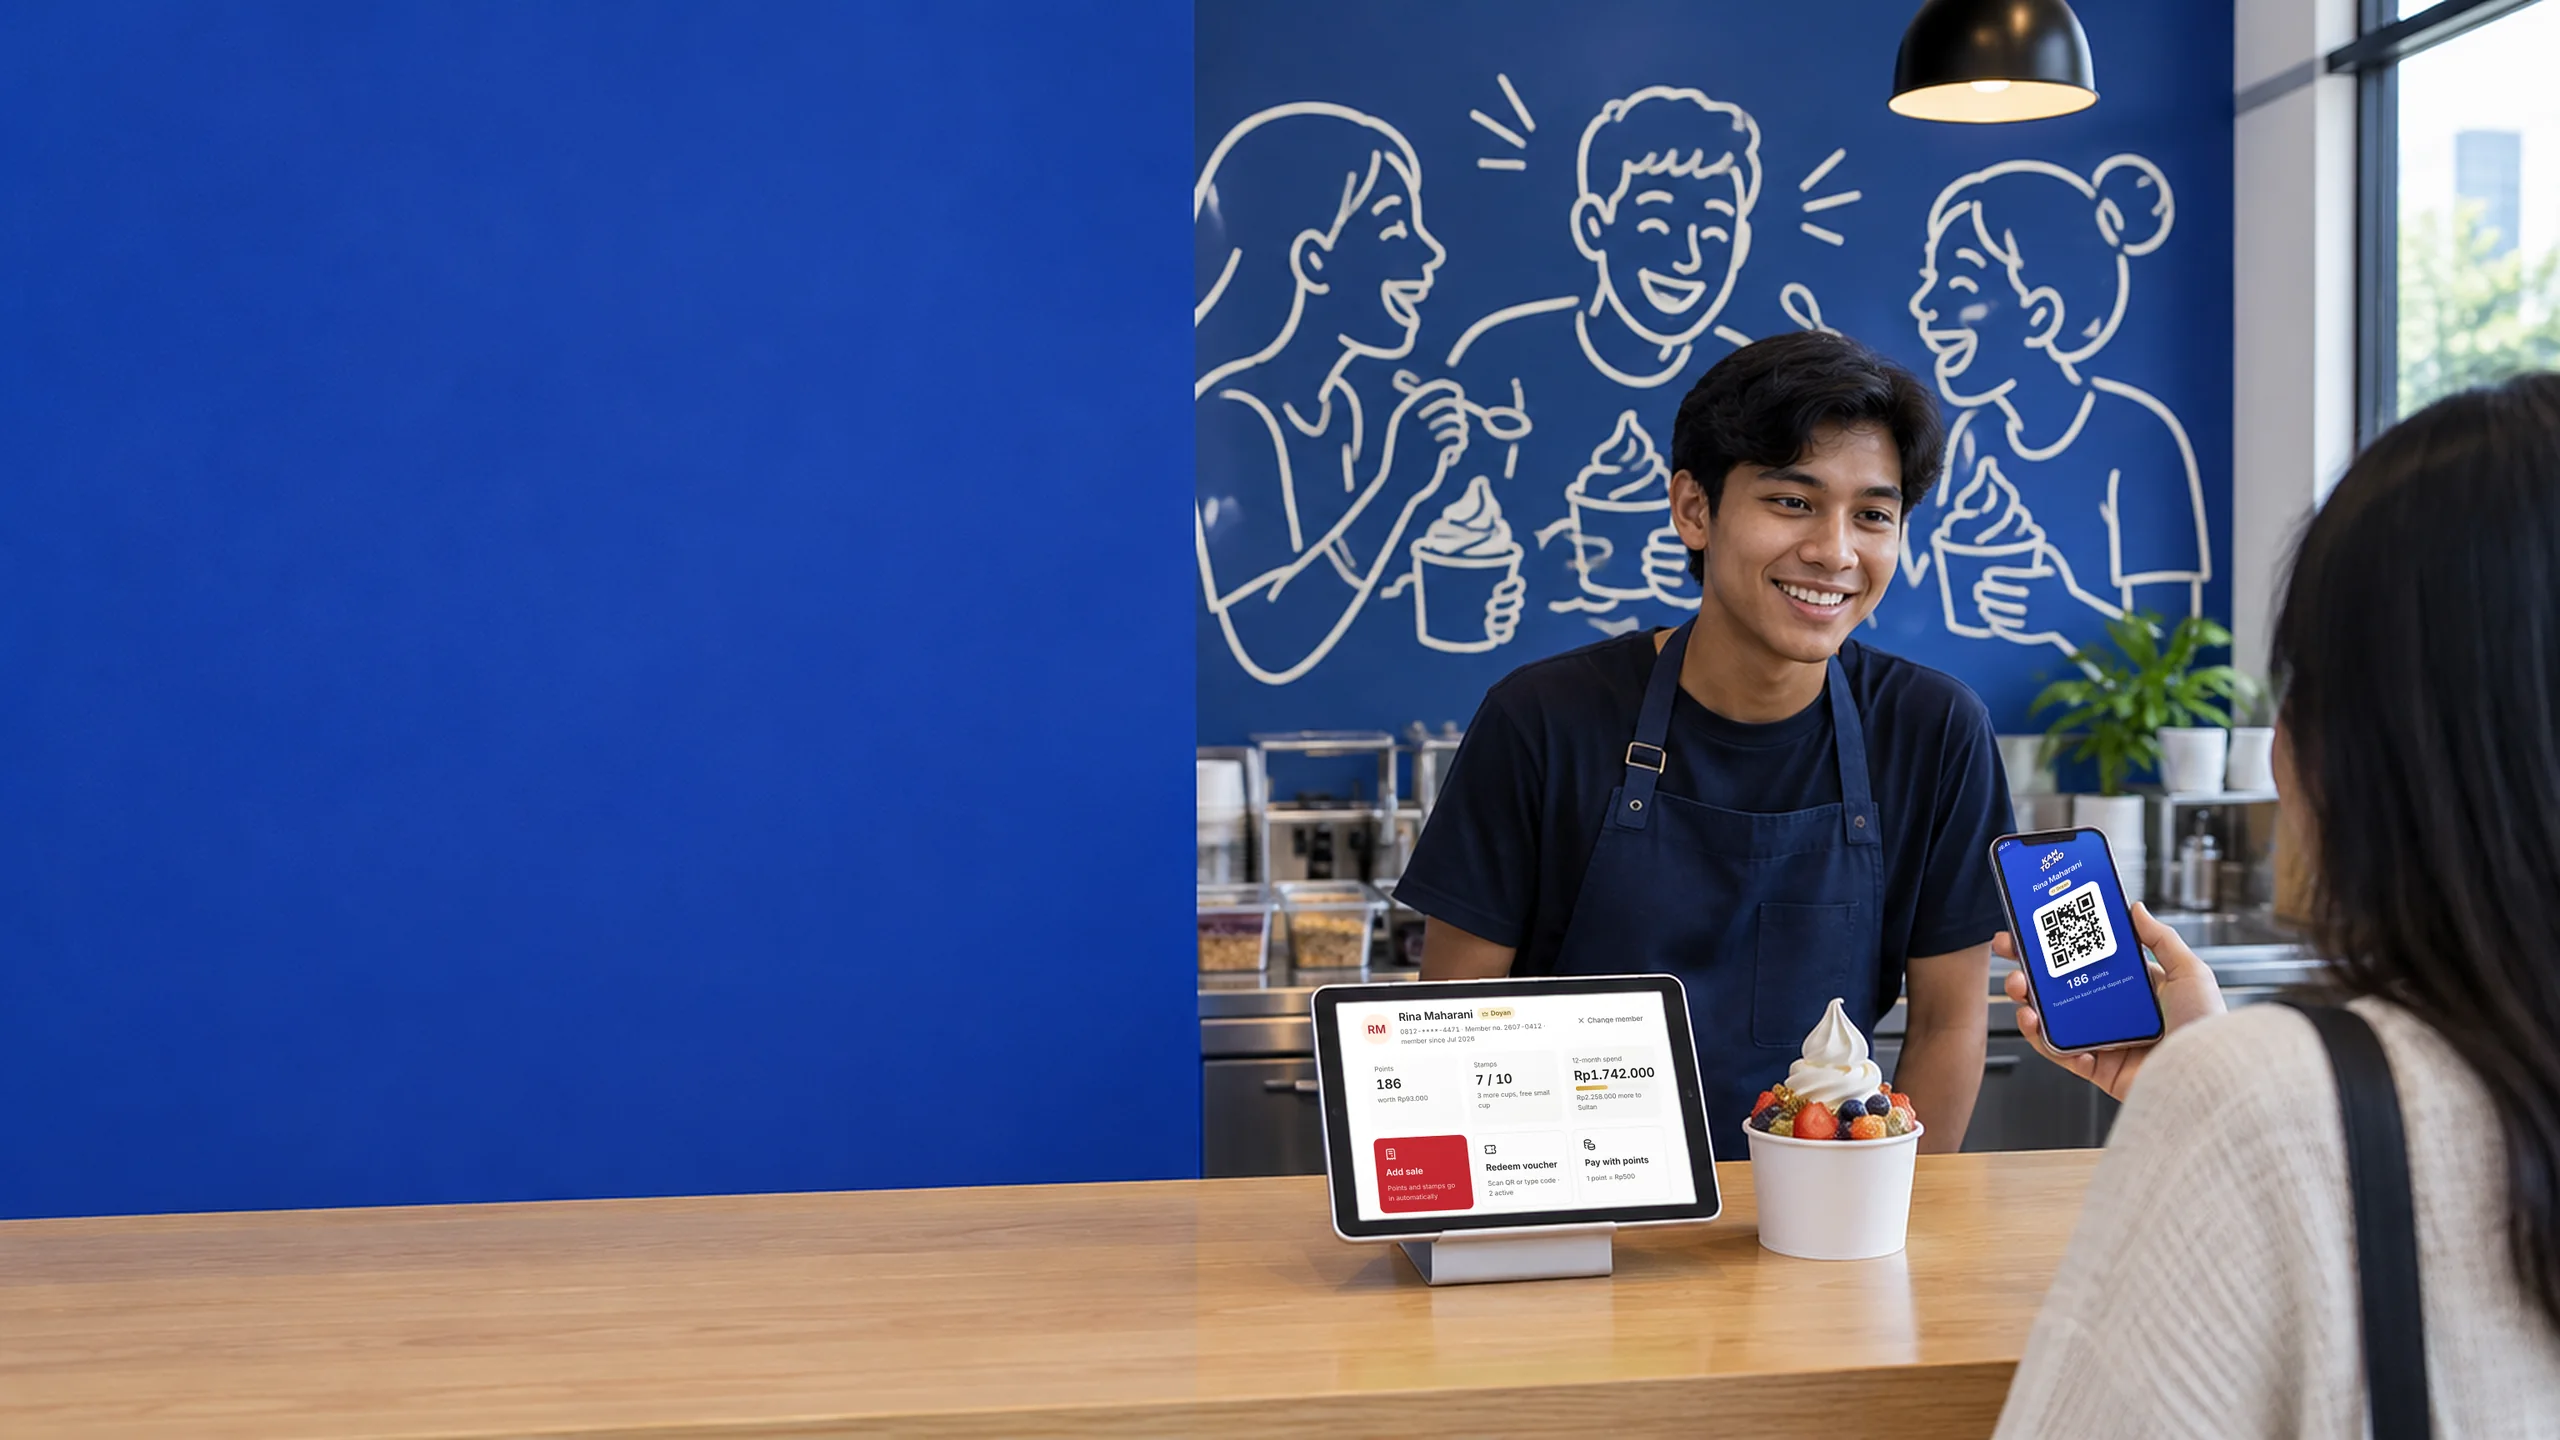
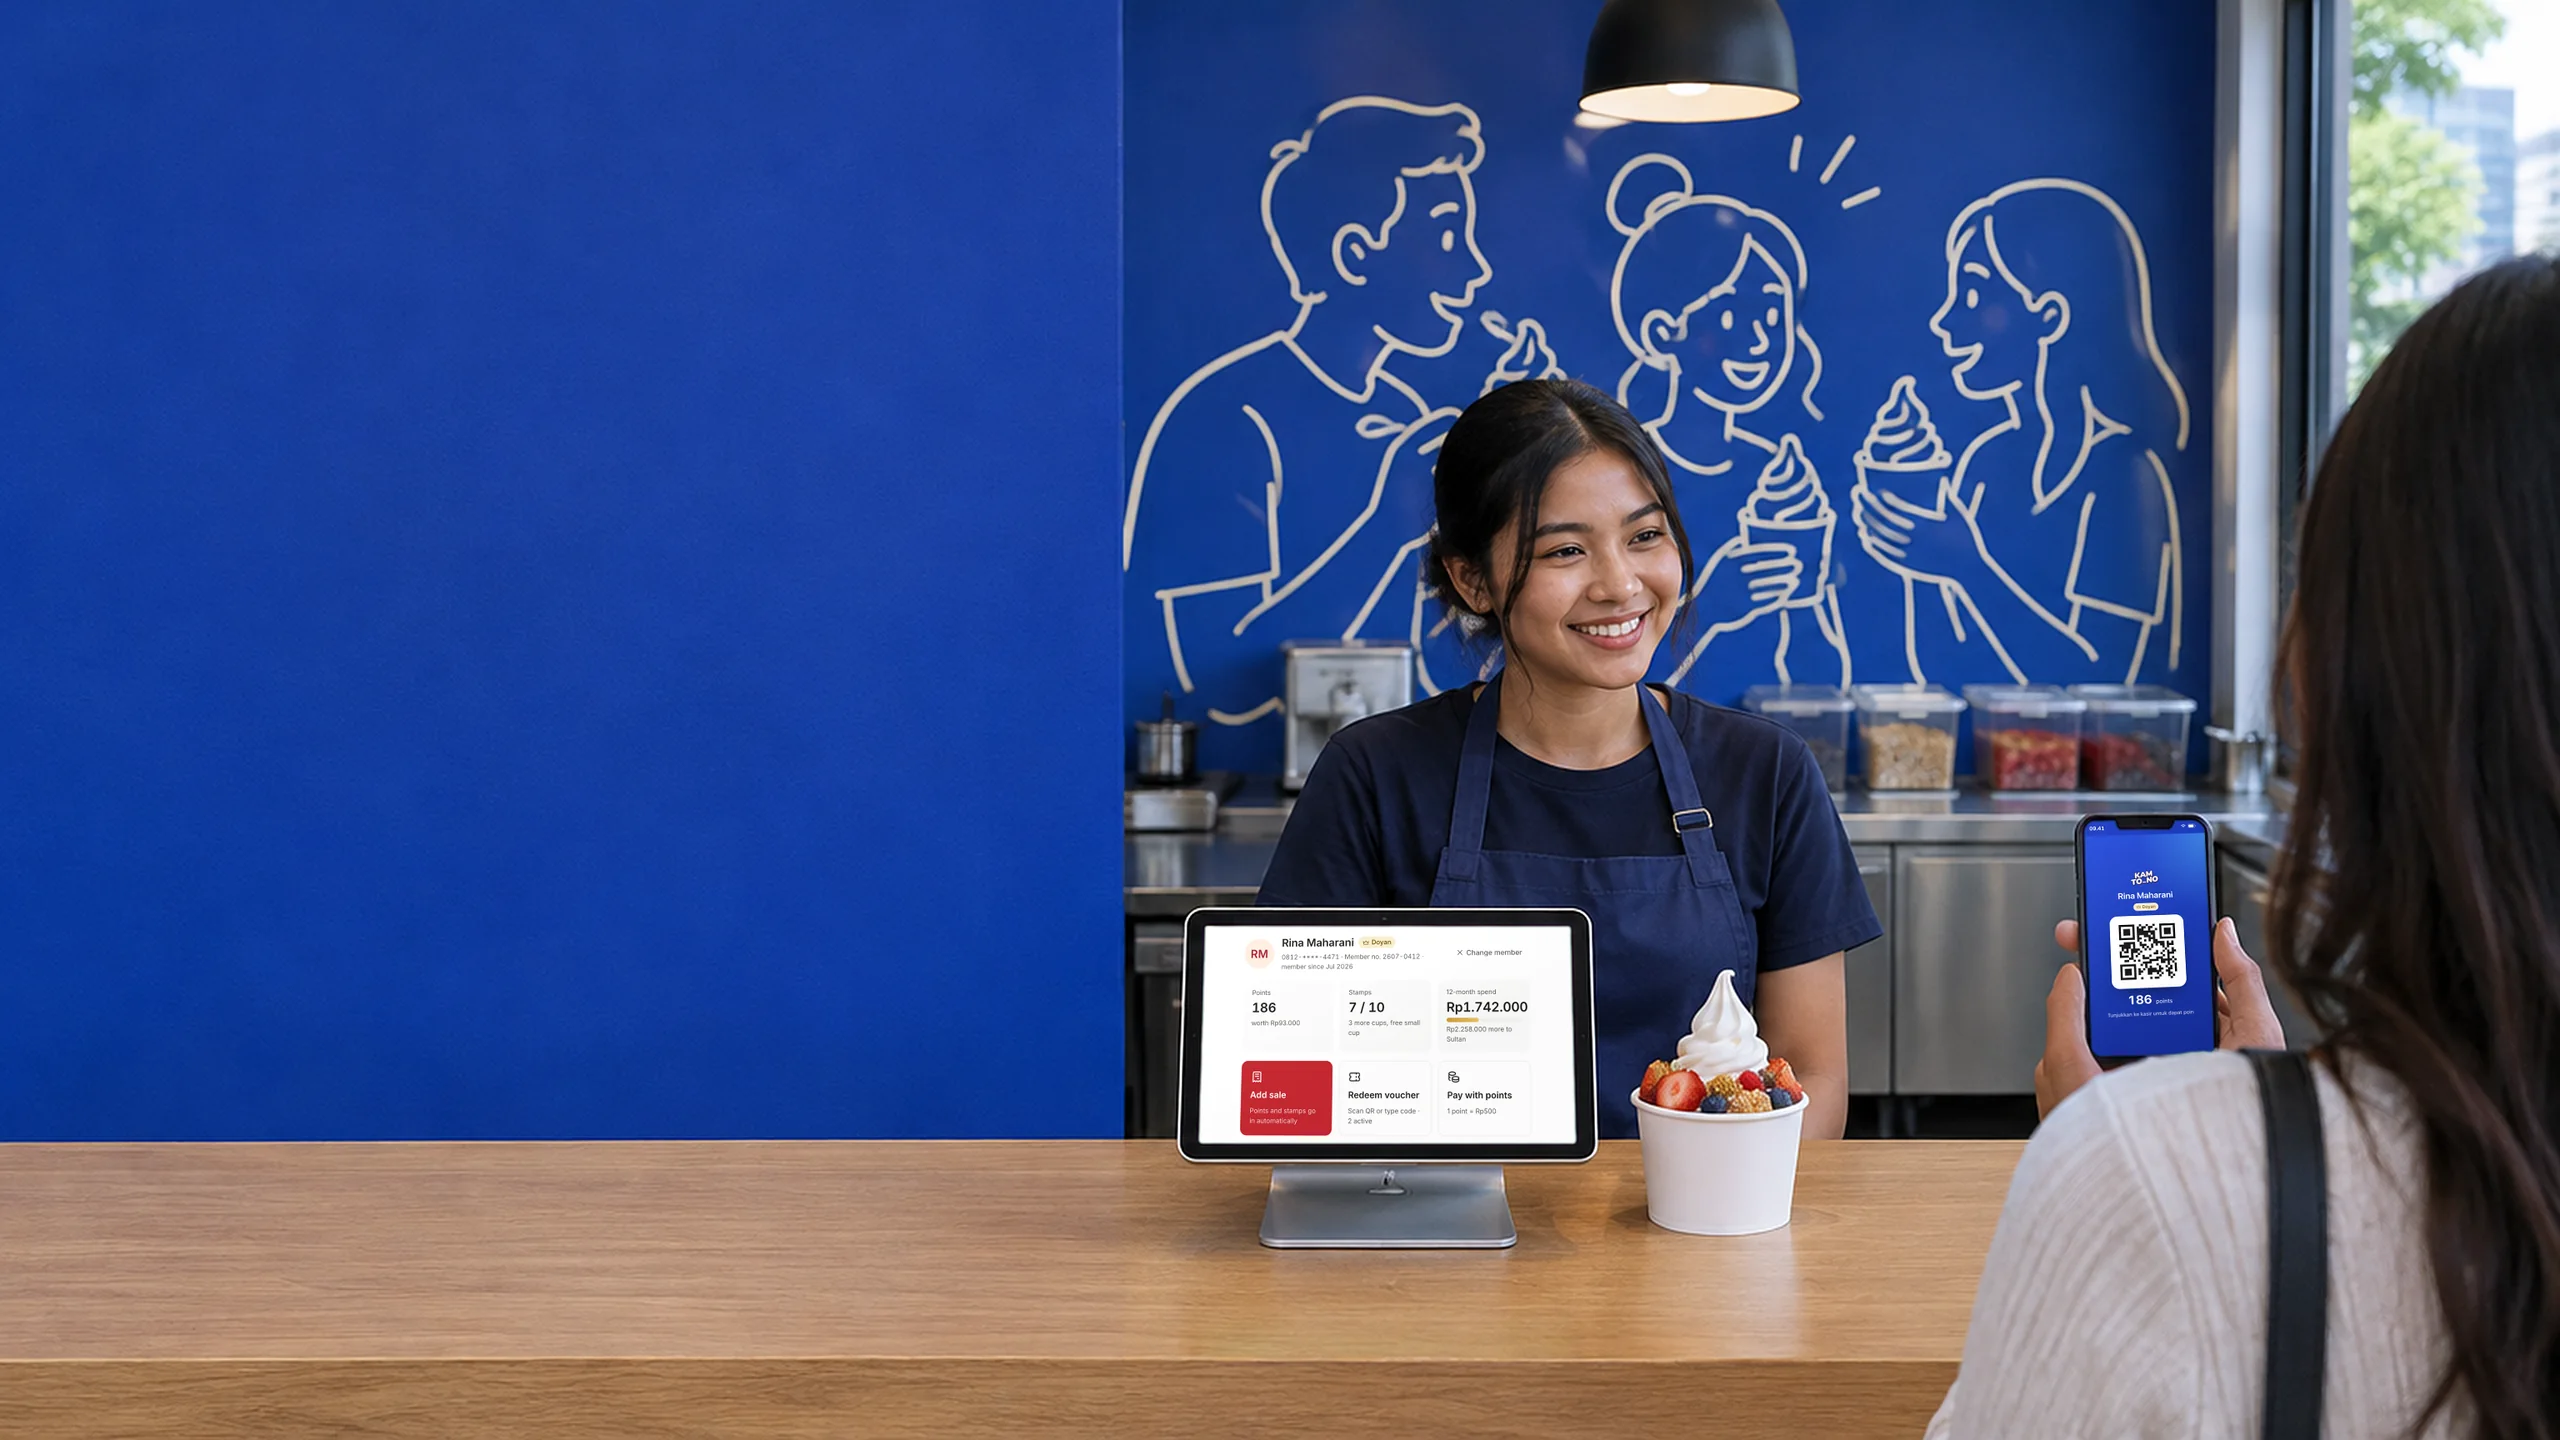
Update Providea Loyalty demo

diff --git a/providea/loyalty/css/loyalty.css b/providea/loyalty/css/loyalty.css
@@ -1093,11 +1093,11 @@
   /* hero slide 1 (is-wall): the wide Kamtono café with copy on the plain blue wall, as Thomas chose on 20 Nov 2026.
      Slide 1 uses img/people/kamtono-*.webp (barista, customer with the member QR, cashier tablet). */
   .kh-panel.is-wall .kh-stage { transform: none; }
-  .kh-panel.is-wall .kh-pin.is-tab { left: 59.2%; top: 68%; }
-  .kh-panel.is-wall .kh-pin.is-hp { left: 81.2%; top: 57%; }
+  .kh-panel.is-wall .kh-pin.is-tab { left: 54.2%; top: 63.4%; }
+  .kh-panel.is-wall .kh-pin.is-hp { left: 84%; top: 56.2%; }
   @media (max-width: 640px) {
     .kh-panel.is-wall .kh-photo { object-position: 85% 50%; }
-    .kh-panel.is-wall .kh-pin.is-tab { left: 50.6%; } .kh-panel.is-wall .kh-pin.is-hp { left: 80%; }
+    .kh-panel.is-wall .kh-pin.is-tab { left: 43.9%; } .kh-panel.is-wall .kh-pin.is-hp { left: 83.7%; }
   }
   /* phones: the story slides' note sits on the photo (bottom), not over the brand line */
   @media (max-width: 860px) { .kh-panel.is-case .kh-note { top: auto; bottom: 10px; } }
@@ -1308,4 +1308,22 @@
 @layer screens {
   /* site pages (landing, stories, sign-in, pricing): let the body grow so the sticky menu stays on screen on long pages */
   body:has(> #demobar.is-site) { height: auto; min-height: 100%; }
+}
+@layer screens {
+  /* last hero slide (is-sale), 20 Nov 2026: copy and devices in their own grid columns so they never collide,
+     devices staggered inside their own box with only corner overlaps */
+  .kh-panel.is-sale { display: grid; grid-template-columns: minmax(0, 5fr) minmax(0, 7fr); align-items: center; column-gap: 4%; padding: 0 4% 0 4.4%; }
+  .kh-panel.is-sale .kh-copy { grid-column: 1; grid-row: 1; position: relative; left: auto; top: auto; transform: none; width: auto; max-width: 30rem; z-index: 2; }
+  .kh-panel.is-sale .hs-trio { grid-column: 2; grid-row: 1; position: relative; inset: auto; z-index: 1; width: 100%; aspect-ratio: 4 / 3.1; margin: 0; }
+  .kh-panel.is-sale .hs-trio > div { box-shadow: 0 26px 50px -24px rgb(0 0 0 / 0.75), 0 0 0 1px rgb(255 255 255 / 0.1); }
+  .kh-panel.is-sale .hs-dash { left: auto; right: 0; top: 0; bottom: auto; width: 70%; border-radius: 12px; }
+  .kh-panel.is-sale .hs-tab { left: 0; right: auto; top: auto; bottom: 0; width: 62%; border-width: 0; border-radius: 22px; }
+  .kh-panel.is-sale .hs-hp { left: auto; right: 2%; top: auto; bottom: 4%; width: 21%; border-width: 0; border-radius: 0; background: transparent; box-shadow: none; aspect-ratio: auto; }
+  .kh-panel.is-sale .hs-hp img { height: auto; object-fit: initial; filter: drop-shadow(0 22px 30px rgb(0 0 0 / 0.55)); }
+  @media (max-width: 1100px) { .kh-panel.is-sale { grid-template-columns: minmax(0, 1fr) minmax(0, 1fr); column-gap: 3%; } .kh-panel.is-sale .kh-copy { width: auto; } }
+  @media (max-width: 860px) {
+    .kh-panel.is-sale { display: flex; flex-direction: column-reverse; padding: 0; }
+    .kh-panel.is-sale .kh-copy { max-width: none; }
+    .kh-panel.is-sale .hs-trio { flex: none; align-self: stretch; height: auto; width: auto; margin: 8px 16px 18px; }
+  }
 }
